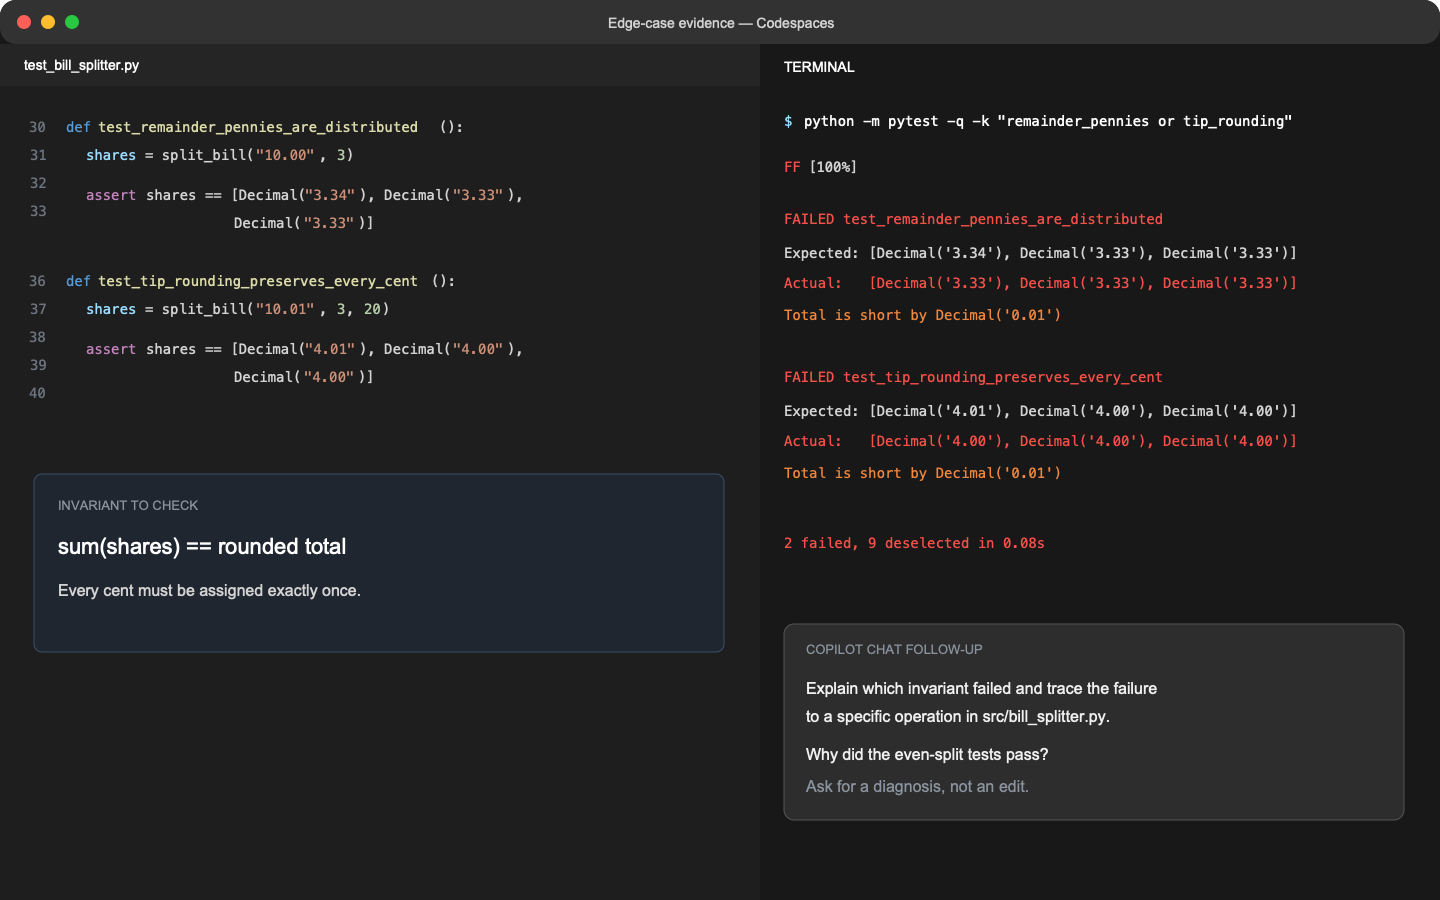
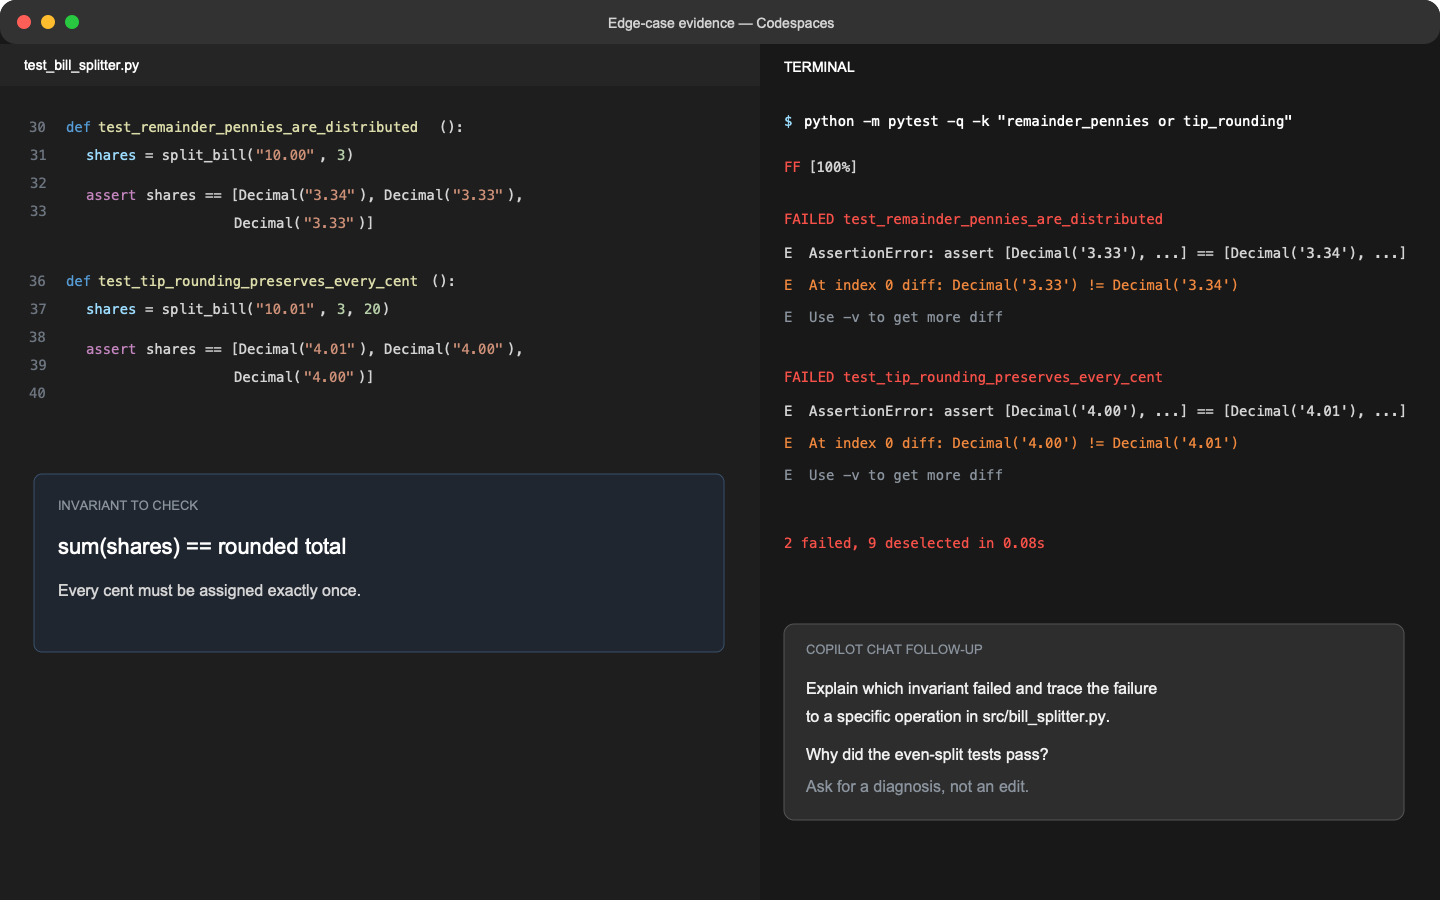
Fix learner screenshot delivery (#4)

Changed region(s): [[0.5312, 0.4356, 0.9375, 0.5289], [0.5312, 0.28, 0.9062, 0.3733]]

diff --git a/.github/scripts/render_step.py b/.github/scripts/render_step.py
@@ -1,0 +1,40 @@
+"""Render repository-local step images as URLs that work in issue comments."""
+
+from __future__ import annotations
+
+import argparse
+from pathlib import Path
+import re
+from urllib.parse import quote
+
+IMAGE_PATTERN = re.compile(r"\.\./images/([A-Za-z0-9._-]+)")
+
+
+def render_step(content: str, repository: str, ref: str) -> str:
+    if not re.fullmatch(r"[A-Za-z0-9_.-]+/[A-Za-z0-9_.-]+", repository):
+        raise ValueError("repository must use the owner/name format")
+    if not ref:
+        raise ValueError("ref must not be empty")
+
+    image_base = (
+        f"https://raw.githubusercontent.com/{repository}/{quote(ref, safe='')}"
+        "/.github/images"
+    )
+    return IMAGE_PATTERN.sub(lambda match: f"{image_base}/{match.group(1)}", content)
+
+
+def main() -> None:
+    parser = argparse.ArgumentParser()
+    parser.add_argument("source", type=Path)
+    parser.add_argument("destination", type=Path)
+    parser.add_argument("repository")
+    parser.add_argument("ref")
+    args = parser.parse_args()
+
+    content = args.source.read_text(encoding="utf-8")
+    rendered = render_step(content, args.repository, args.ref)
+    args.destination.write_text(rendered, encoding="utf-8")
+
+
+if __name__ == "__main__":
+    main()
